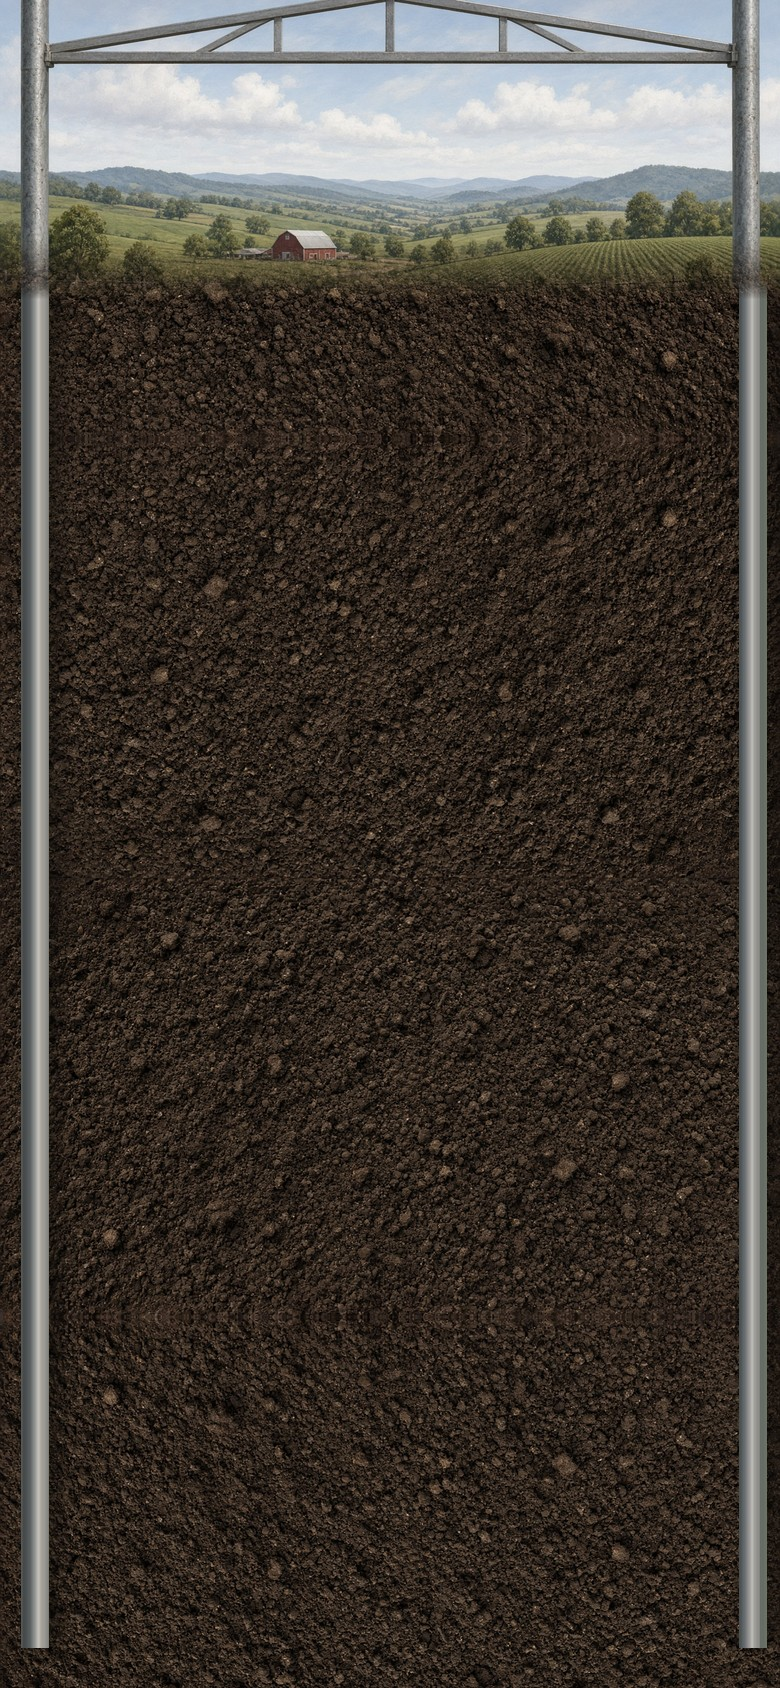
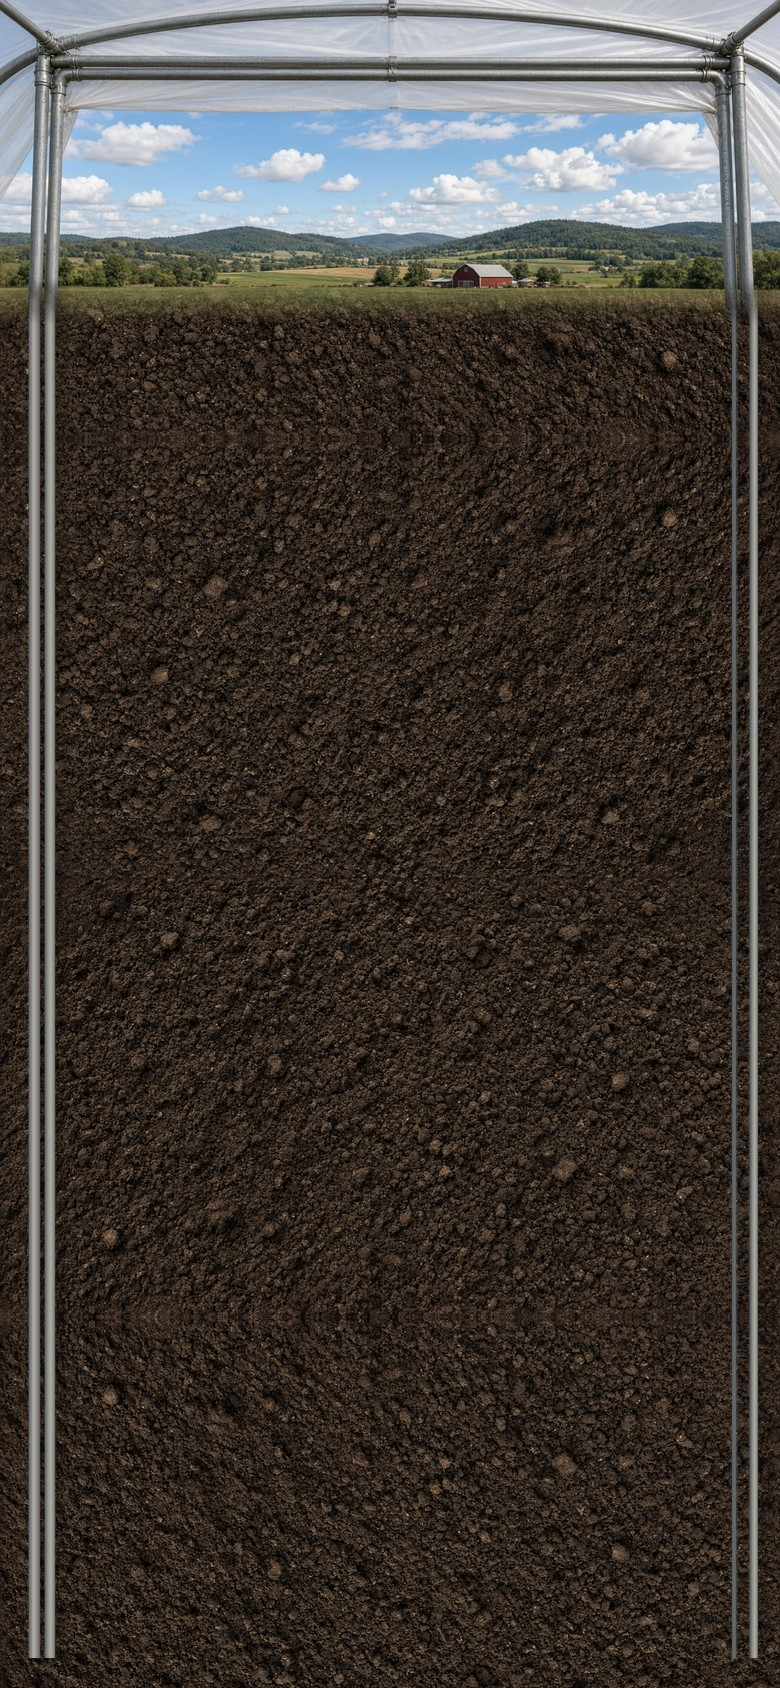
Keep the greenhouse beds between the steel poles.
The new hoop-frame photo stays full height, and the six beds of six sit inside the pole pairs.

Changed region(s): [[0.0, 0.0, 1.0, 0.9858]]

diff --git a/js/scene.js b/js/scene.js
@@ -981,7 +981,9 @@ window.R=(function(){
     const barTop=bar&&bar.getBoundingClientRect().height>40?bar.getBoundingClientRect().top:H-128;
     const gearTop=Math.round(barTop-gearH), bedsTop=tab, bedsH=Math.max(40,gearTop-bedsTop);
     const nBeds=spot==='gh'?6:5, per=spot==='indoor'?8:spot==='gh'?6:5;
-    const bedH=bedsH/nBeds, cell=W/per;
+    // Greenhouse poles are the outer pairs. Keep plants, timers, and the light inside them.
+    const edge=spot==='gh'?0.08:0, bedL=W*edge, bedR=W*(1-edge);
+    const bedH=bedsH/nBeds, cell=(bedR-bedL)/per;
     const cls=spot==='gh'?'gh':'in', kind=spot==='gh'?'soil':'pot';
     const Hm=cls==='gh'?1.2:1.25;
     const snaps=[75,72,64,60,56,50,48,40];
@@ -1003,11 +1005,12 @@ window.R=(function(){
       const glow=ctx.createLinearGradient(0,y0+lightH-2,0,soil+6);
       glow.addColorStop(0,spot==='gh'?'rgba(255,236,190,.20)':'rgba(255,246,220,.34)');
       glow.addColorStop(1,'rgba(255,246,220,0)');
-      ctx.fillStyle=glow; ctx.beginPath(); ctx.moveTo(24,y0+lightH-2); ctx.lineTo(W-24,y0+lightH-2); ctx.lineTo(W-6,soil-2); ctx.lineTo(6,soil-2); ctx.closePath(); ctx.fill();
+      const gL=spot==='gh'?bedL+4:24, gR=spot==='gh'?bedR-4:W-24, sL=spot==='gh'?bedL:6, sR=spot==='gh'?bedR:W-6;
+      ctx.fillStyle=glow; ctx.beginPath(); ctx.moveTo(gL,y0+lightH-2); ctx.lineTo(gR,y0+lightH-2); ctx.lineTo(sR,soil-2); ctx.lineTo(sL,soil-2); ctx.closePath(); ctx.fill();
       row.forEach((p,i)=>{
-        const x=(i+.5)*cell; p.prog=.9; p.water=1; p.food=1; p.pest=null; p._dv=1;
+        const x=bedL+(i+.5)*cell; p.prog=.9; p.water=1; p.food=1; p.pest=null; p._dv=1;
         const sl={x,y:kind==='pot'?soil:soil-.09*ppm,ppm,sp:Math.max(.25,(cell-12)/ppm/1.2),cls,kind};
-        bedsClip(i*cell+1,y0+lightH,cell-2,bedH-lightH-2,()=>{
+        bedsClip(bedL+i*cell+1,y0+lightH,cell-2,bedH-lightH-2,()=>{
           const yoff=potLift(sl); ctx.save(); ctx.translate(0,-yoff);
           if(kind==='pot') bucketPot(sl.x,sl.y,sl.ppm); else soilMound(sl.x,sl.y,sl.ppm);
           drawPlantAt(p,null,sl,now); ctx.restore();
@@ -1036,7 +1039,7 @@ window.R=(function(){
       const im=bedIM['light-'+spot]||bedIM['light-garage']; if(!im||!im.naturalWidth) return;
       // The sprite's bar is the lower half (about 8:1). Its built-in chains are a couple of pixels wide, so draw two short cables up to the bed top and the bar art beneath them.
       const srcY=Math.round(im.naturalHeight*.5), srcH=im.naturalHeight-srcY;
-      const fh=Math.max(16,lightH-10), fw=Math.min(W-32, fh*im.naturalWidth/srcH), cx=W/2, top=y0+8;
+      const fh=Math.max(16,lightH-10), fw=Math.min(bedR-bedL-16, fh*im.naturalWidth/srcH), cx=(bedL+bedR)/2, top=y0+8;
       const x0=cx-fw/2, xL=x0+fw*(16/im.naturalWidth), xR=x0+fw*(238/im.naturalWidth);
       ctx.strokeStyle='rgba(198,204,210,.95)'; ctx.lineWidth=2.25; ctx.lineCap='round';
       ctx.beginPath(); ctx.moveTo(xL,y0+1); ctx.lineTo(xL,top+2); ctx.moveTo(xR,y0+1); ctx.lineTo(xR,top+2); ctx.stroke();
@@ -1049,8 +1052,9 @@ window.R=(function(){
       let h=Math.min(56,bottom-top-2);
       let widths=use.map(k=>h*bedIM[k].naturalWidth/bedIM[k].naturalHeight);
       let sum=widths.reduce((a,b)=>a+b,0)+(use.length-1)*8;
-      if(sum>W-12){ const sc=(W-12)/sum; h*=sc; widths=widths.map(w=>w*sc); }
-      let x=6, feet=bottom-1;
+      const left=spot==='gh'?bedL:6, right=spot==='gh'?bedR:W-6, room=right-left;
+      if(sum>room){ const sc=room/sum; h*=sc; widths=widths.map(w=>w*sc); }
+      let x=left, feet=bottom-1;
       use.forEach((k,i)=>{ const w=widths[i]; ctx.drawImage(bedIM[k],x,feet-h,w,h); x+=w+8; });
     }
   }
